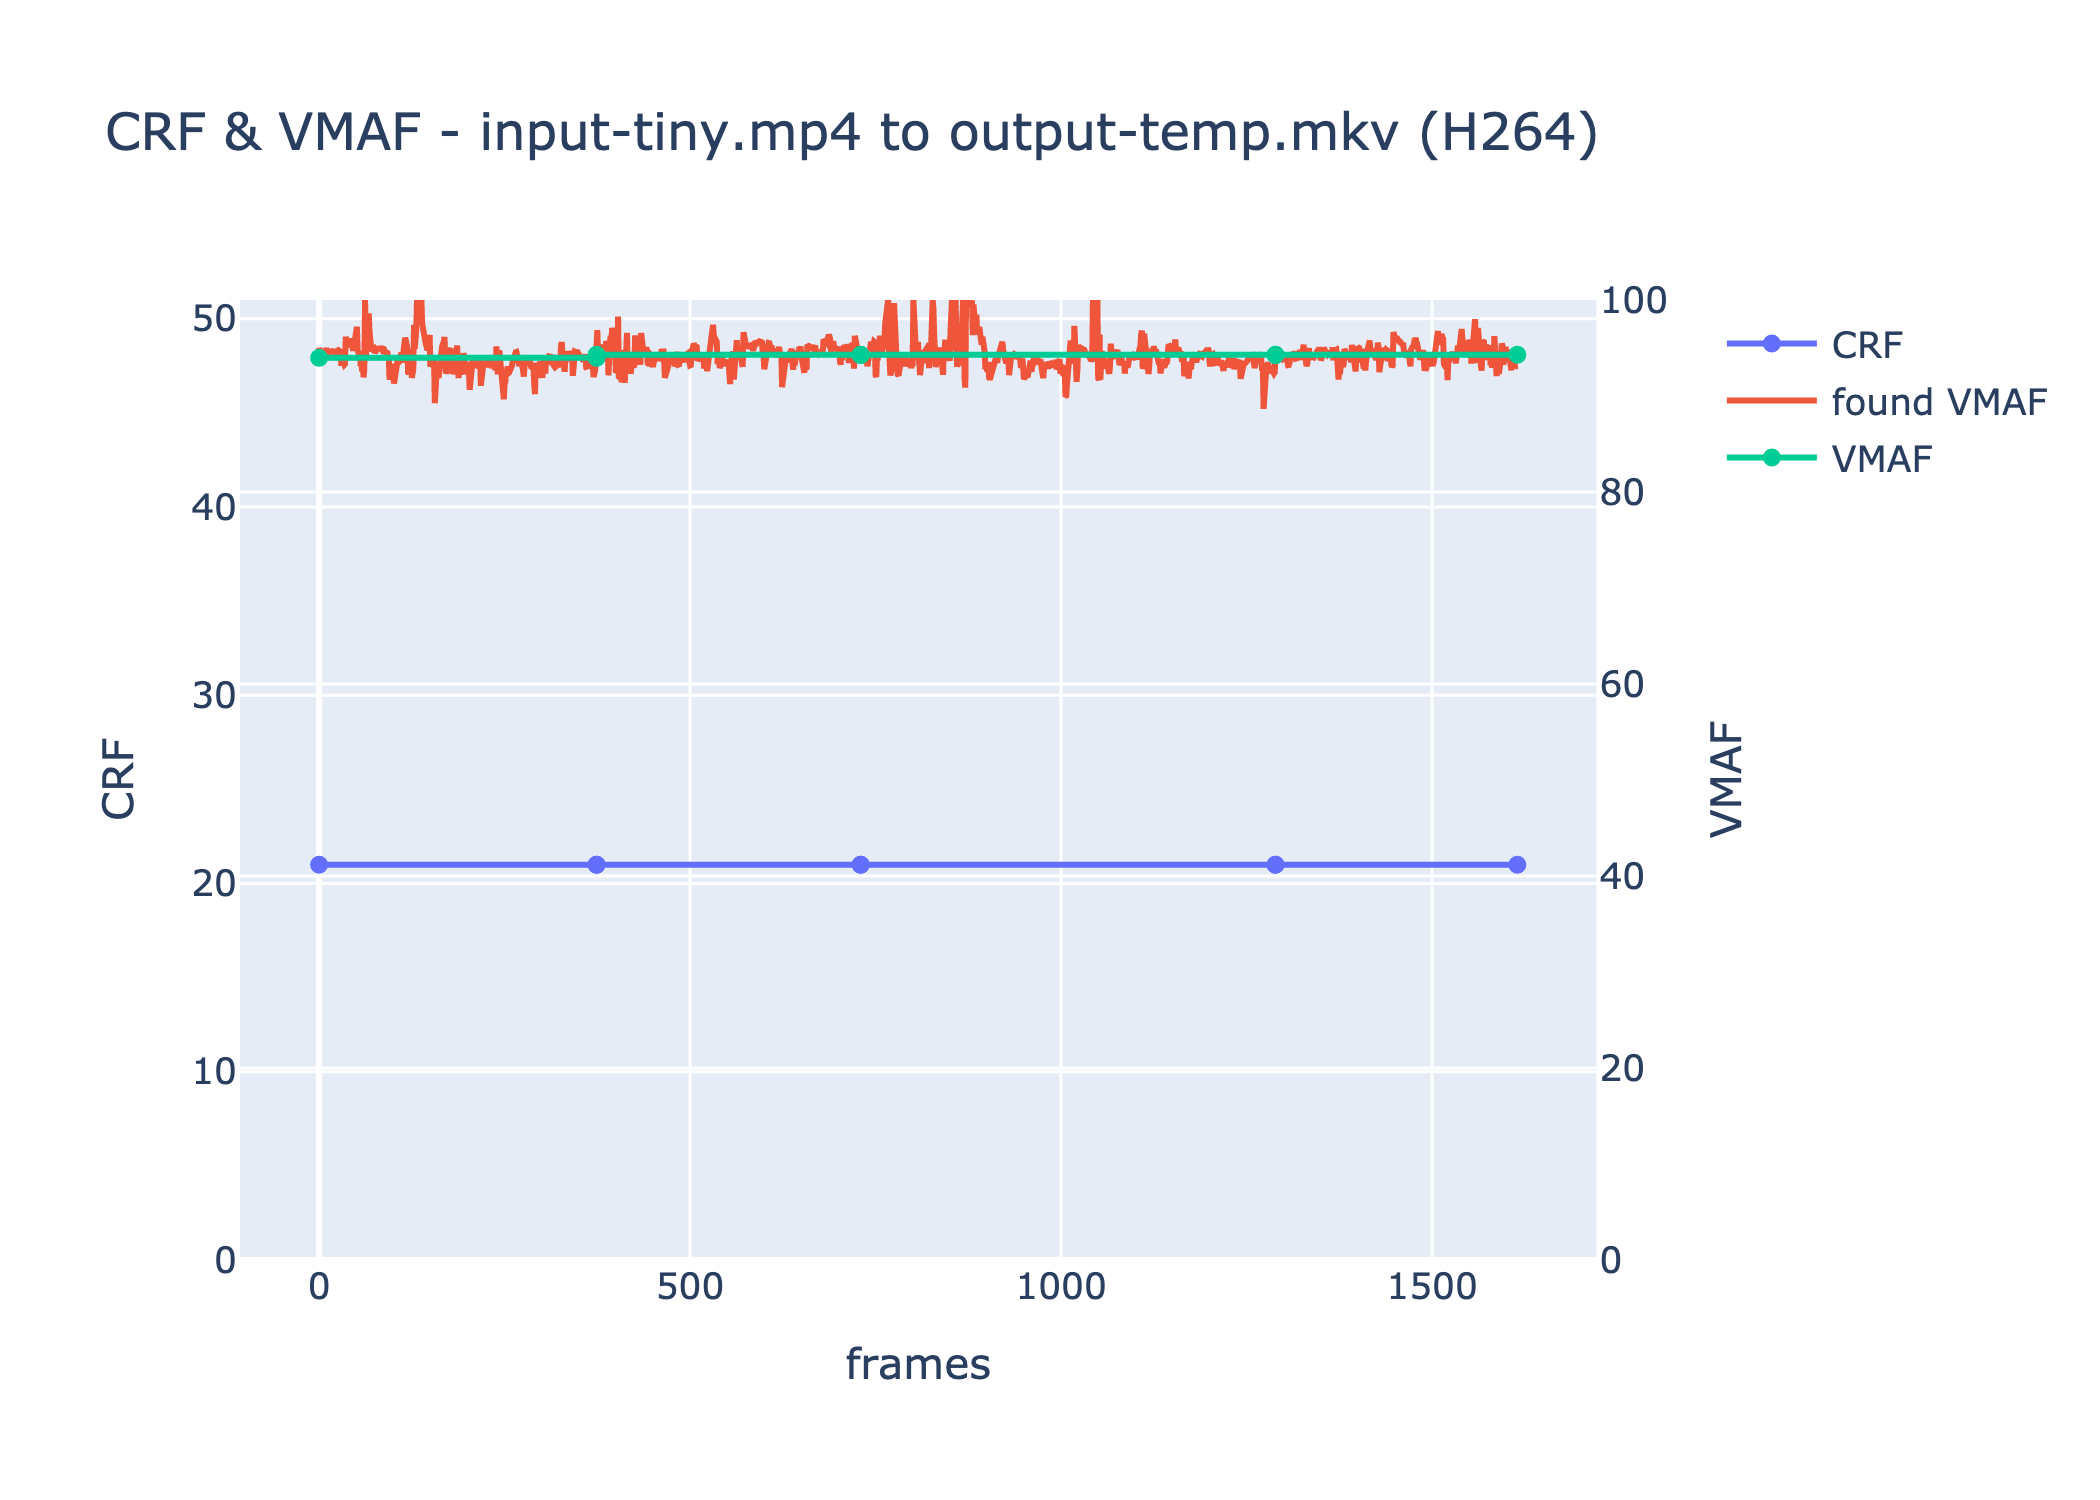
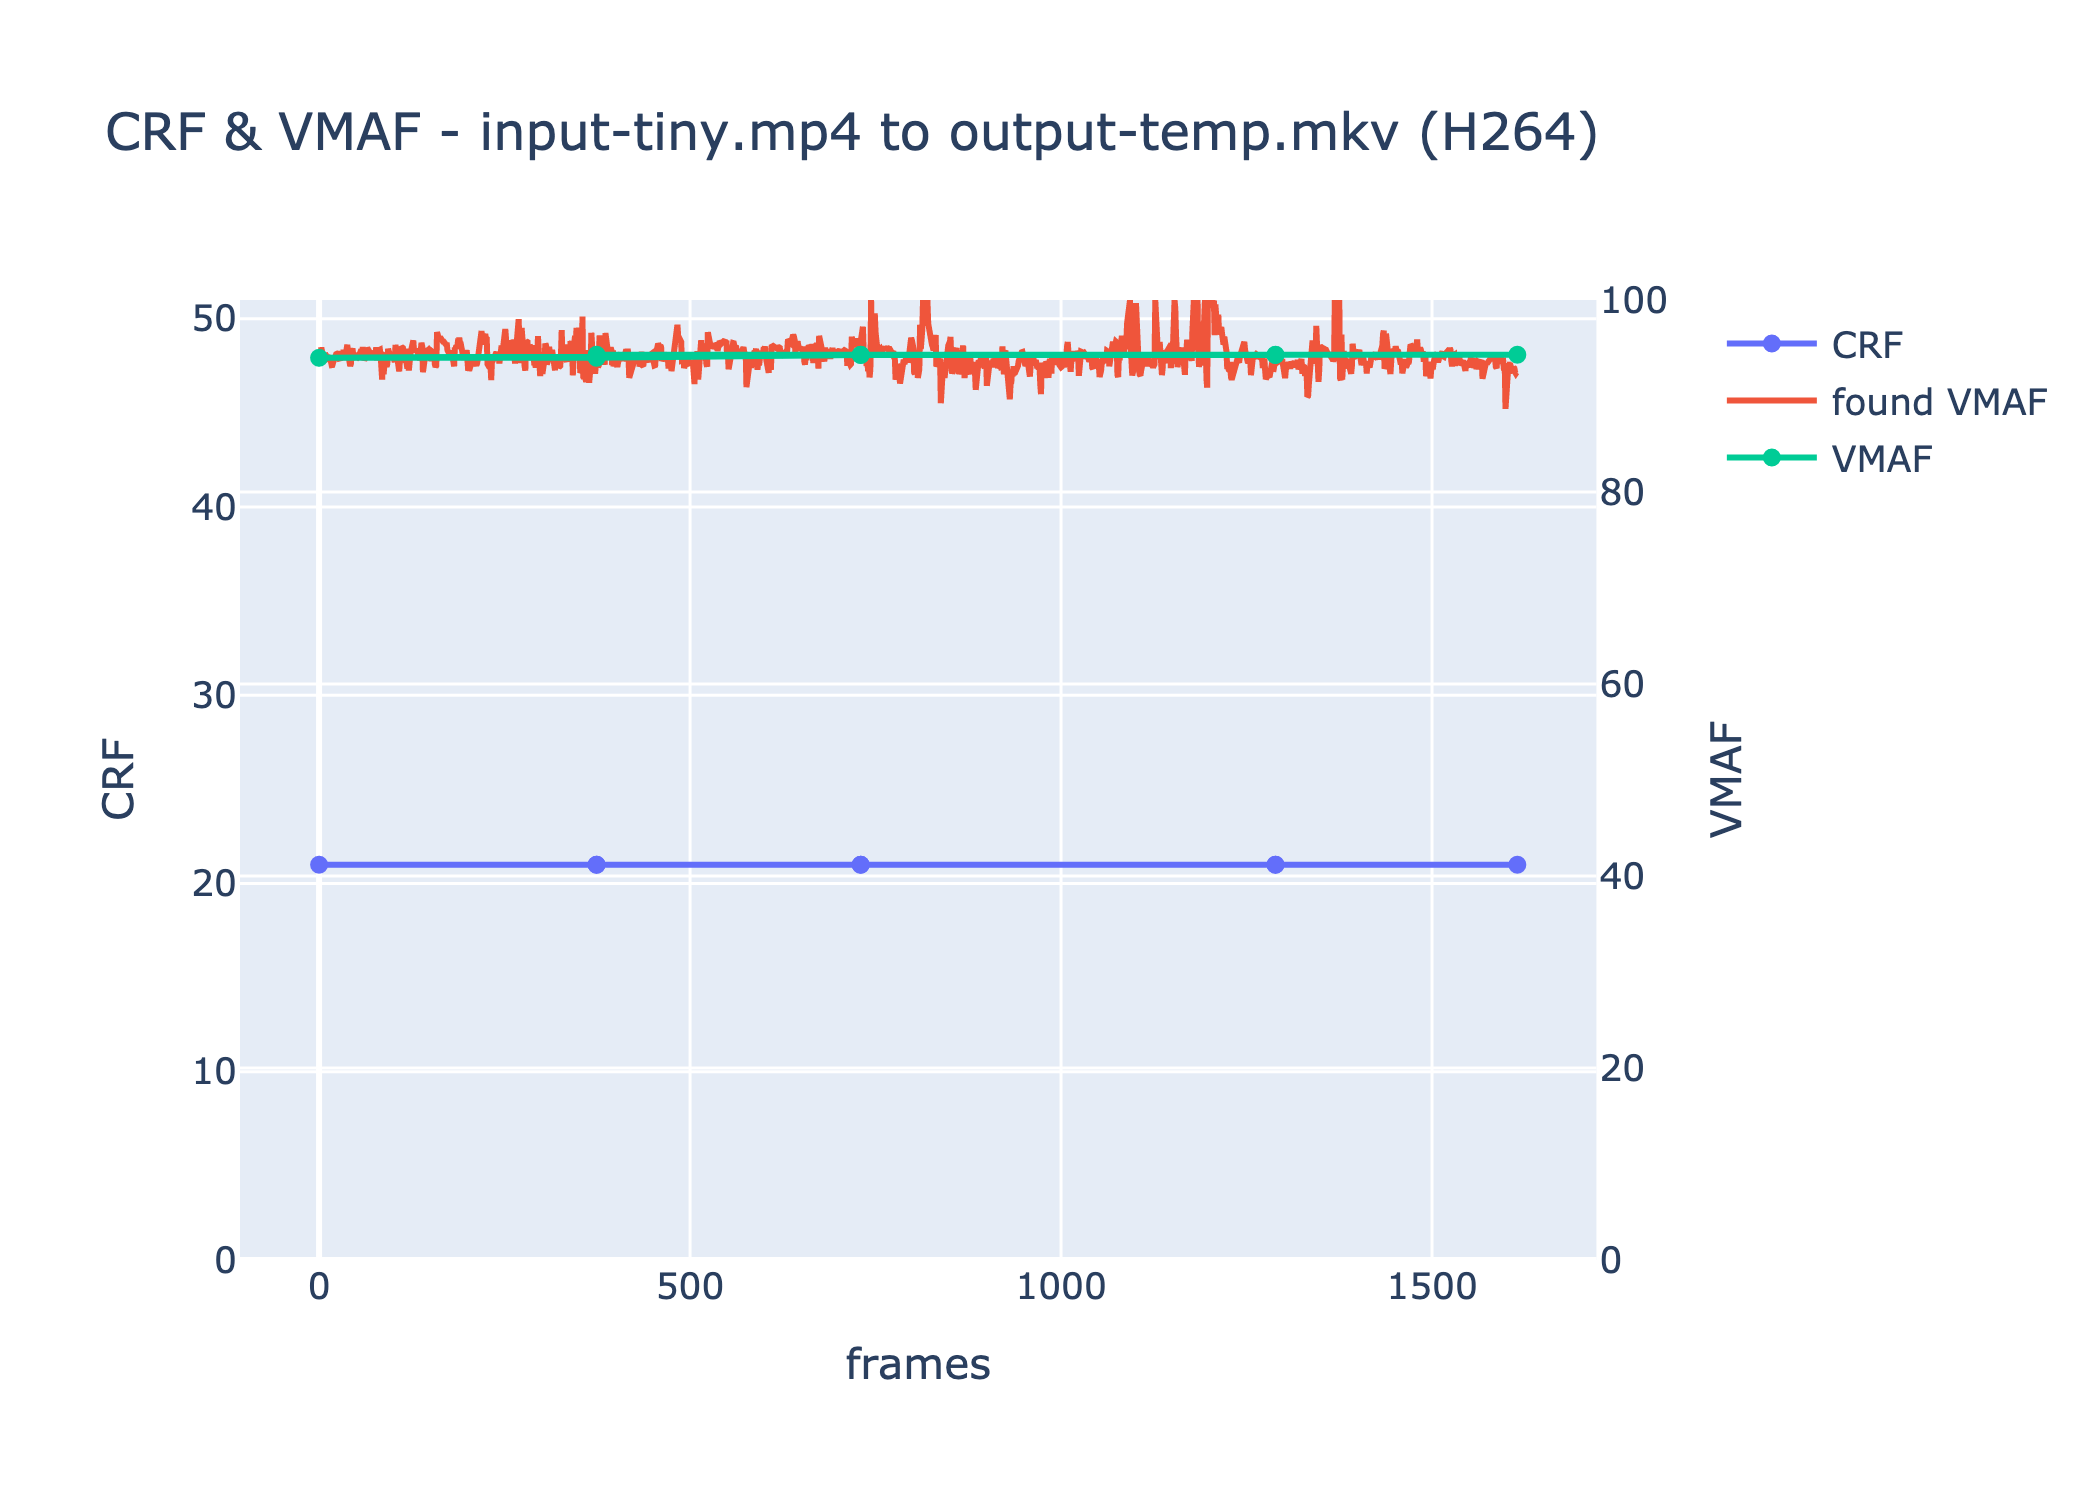
feature --> sorting of the scenes based on length (for rendering)

Changed region(s): [[0.1548, 0.184, 0.7119, 0.276], [0.7119, 0.2453, 0.7429, 0.276]]

diff --git a/src/v2-target-videoCRF-minimal.py b/src/v2-target-videoCRF-minimal.py
@@ -1,17 +1,19 @@
+from typing import Literal
 import ffmpeg
 import ffmpeg_heuristics
-import scene_detection
 import graph_generate
+import scene_detection
 
-from rich.progress import Progress, TimeElapsedColumn
 from rich import print
+from rich.progress import Progress, TimeElapsedColumn
 import concurrent.futures
 import os
 import time
 
-import pickle
 from hashlib import sha256
 from rich.console import Console
+import pickle
+# from multiprocessing import Pool
 
 progress = Progress(
     *Progress.get_default_columns(),
@@ -31,6 +33,9 @@ def compressing_video(
     audio_commands: None | str = "-c:a copy",  # TODO: Remove None option
     subtitle_commands: None | str = "-c:s copy",
     multithreading_threads: int = 2,
+    scenes_length_sort: Literal[
+        "chronological", "largest first", "smallest first"
+    ] = "chronological",
     # crop_black_bars: bool = True,
 ) -> None:
     assert os.path.isfile(
@@ -42,6 +47,20 @@ def compressing_video(
             full_input_filename, minimum_scene_length_seconds
         )
         print(video_scenes)
+        match scenes_length_sort:
+            case "smallest first":
+                video_scenes = sorted(
+                    video_scenes,
+                    key=lambda x: x.end_frame - x.start_frame,
+                )
+            case "largest first":
+                video_scenes = sorted(
+                    video_scenes,
+                    key=lambda x: x.end_frame - x.start_frame,
+                    reverse=True,
+                )
+            case "chronological":
+                pass
 
     input_filename_data = ffmpeg.get_video_metadata(full_input_filename)
 
@@ -250,4 +269,5 @@ if __name__ == "__main__":
         minimum_scene_length_seconds=0.2,
         audio_commands="-c:a copy",
         multithreading_threads=4,
+        scenes_length_sort="smallest first",
     )
